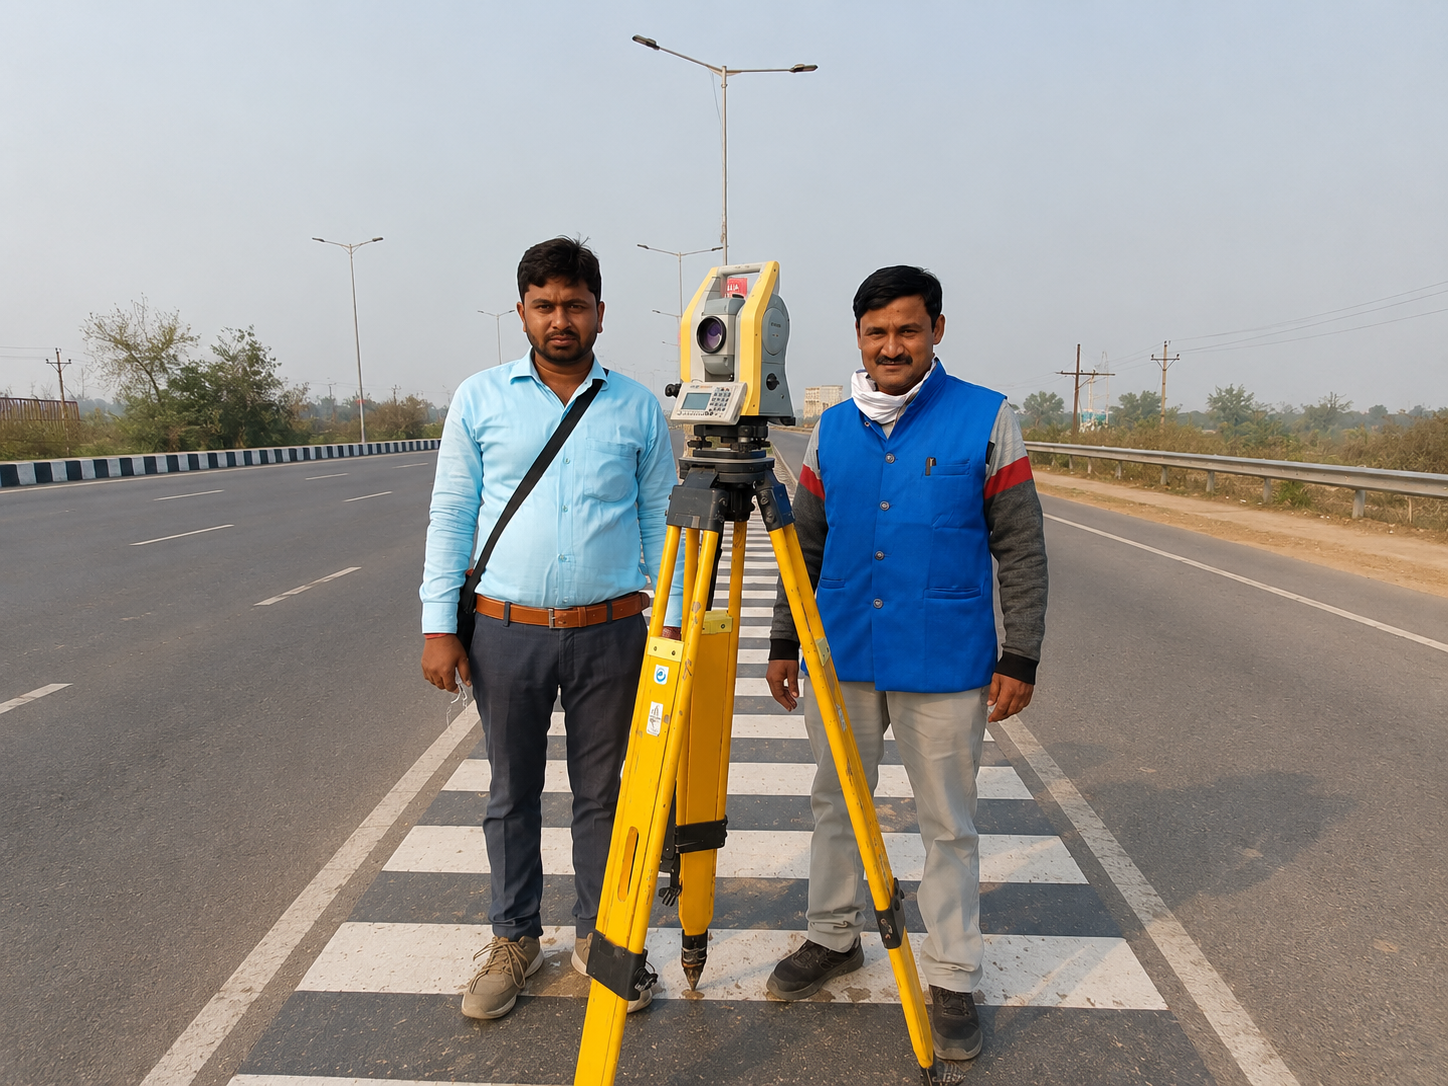
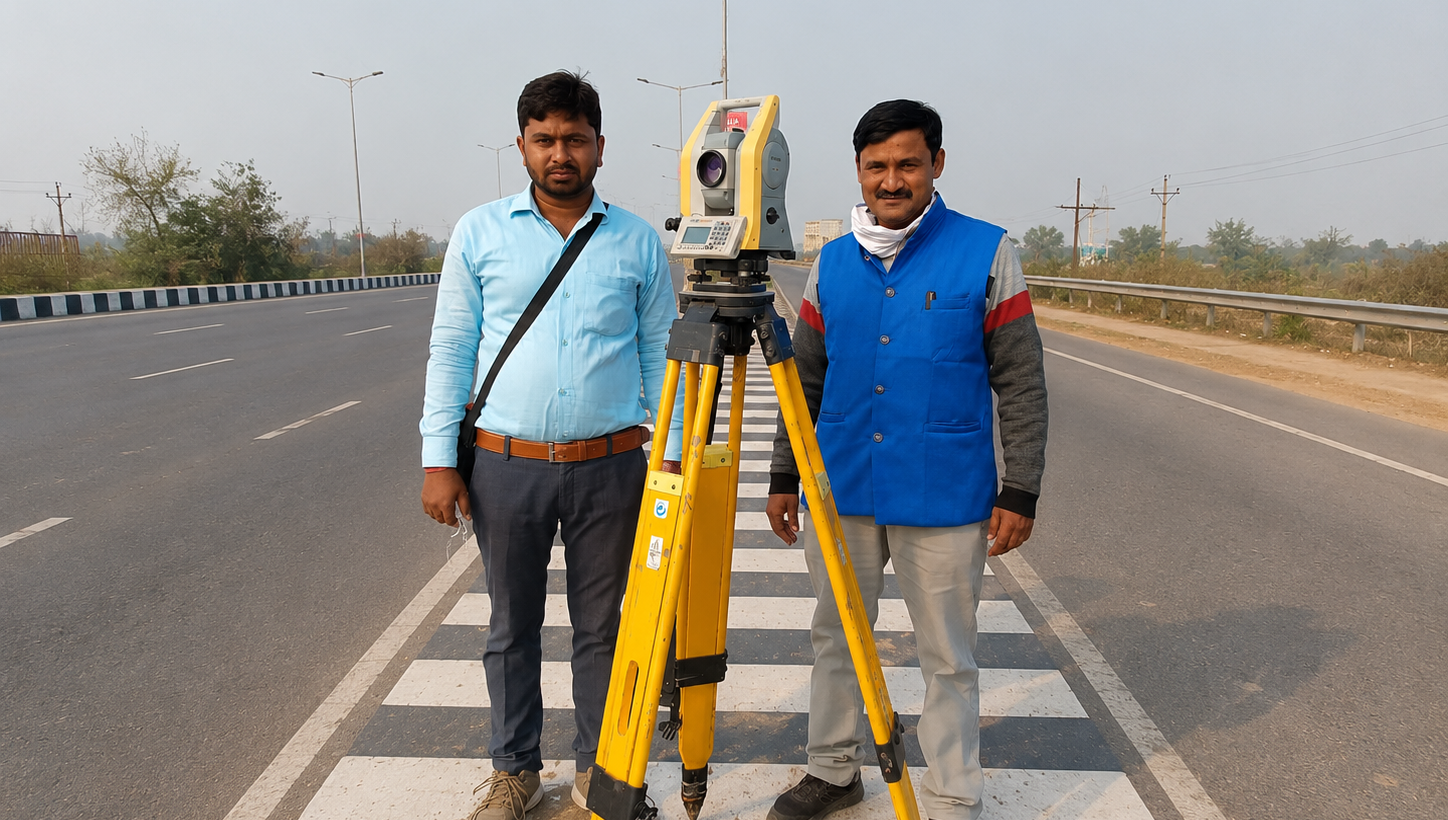
feat: add core pages, enquiry forms, and training details

diff --git a/src/components/forms/SurveyRequestForm.jsx b/src/components/forms/SurveyRequestForm.jsx
@@ -107,46 +107,42 @@ const SurveyRequestForm = () => {
     const whatsAppNumber = formData.customer.whatsappSameAsPhone ? formData.customer.phone : formData.customer.whatsapp;
     
     try {
-      const payload = {
-        name: formData.customer.name,
-        phone: formData.customer.phone,
-        type: 'Survey',
-        service: formData.service,
-        whatsapp: whatsAppNumber || '',
-        email: formData.customer.email || '',
-        location: `${formData.site.address}, ${formData.site.city}`,
-        data: {
-          site: formData.site,
-          requirement: formData.requirement,
-          hasDocuments: formData.documents.hasDocuments,
-          preferredContact: formData.customer.preferredContact
-        }
-      };
-
-      const data = await createLead(payload);
-      
-      const generatedId = data.leadCode;
-      
-      const message = `*NEW SURVEY REQUEST (${generatedId})*%0A%0A` +
-        `*1. SERVICE:* ${formData.service}%0A%0A` +
-        `*2. SITE DETAILS*%0A` +
-        `Location: ${formData.site.address}, ${formData.site.city}${formData.site.district ? `, ${formData.site.district}` : ''} ${formData.site.pincode}%0A` +
-        `Area: ${formData.site.area ? formData.site.area + ' ' + formData.site.unit : 'Not specified'}%0A` +
-        `Type: ${formData.site.siteType || 'Not specified'}%0A%0A` +
-        `*3. REQUIREMENT*%0A` +
-        `Description: ${formData.requirement.description}%0A` +
-        `Purpose: ${formData.requirement.purpose || 'Not specified'}%0A` +
-        `Preferred Discussion: ${formData.requirement.preferredDate}%0A%0A` +
-        `*4. DOCUMENTS*%0A` +
-        `Status: ${formData.documents.hasDocuments ? 'Has documents ready to share' : 'No documents available right now'}%0A%0A` +
-        `*5. CONTACT*%0A` +
-        `Name: ${formData.customer.name}%0A` +
-        `Phone: ${formData.customer.phone}%0A` +
-        `WhatsApp: ${whatsAppNumber || 'N/A'}%0A` +
-        `Email: ${formData.customer.email || 'N/A'}%0A` +
+      const rawMessage = `*NEW SURVEY REQUEST*\n\n` +
+        `*1. SERVICE:* ${formData.service}\n\n` +
+        `*2. SITE DETAILS*\n` +
+        `Location: ${formData.site.address}, ${formData.site.city}${formData.site.district ? `, ${formData.site.district}` : ''} ${formData.site.pincode}\n` +
+        `Area: ${formData.site.area ? formData.site.area + ' ' + formData.site.unit : 'Not specified'}\n` +
+        `Type: ${formData.site.siteType || 'Not specified'}\n\n` +
+        `*3. REQUIREMENT*\n` +
+        `Description: ${formData.requirement.description}\n` +
+        `Purpose: ${formData.requirement.purpose || 'Not specified'}\n` +
+        `Preferred Discussion: ${formData.requirement.preferredDate}\n\n` +
+        `*4. DOCUMENTS*\n` +
+        `Status: ${formData.documents.hasDocuments ? 'Has documents ready to share' : 'No documents available right now'}\n\n` +
+        `*5. CONTACT*\n` +
+        `Name: ${formData.customer.name}\n` +
+        `Phone: ${formData.customer.phone}\n` +
+        `WhatsApp: ${whatsAppNumber || 'N/A'}\n` +
+        `Email: ${formData.customer.email || 'N/A'}\n` +
         `Preferred Method: ${formData.customer.preferredContact}`;
 
-      setSuccessData({ leadCode: generatedId, message });
+      const whatsappNumber = '919453072917';
+      const emailAddress = 'adyalandsurvey@gmail.com';
+      
+      const whatsappUrl = `https://wa.me/${whatsappNumber}?text=${encodeURIComponent(rawMessage)}`;
+      const mailtoUrl = `mailto:${emailAddress}?subject=${encodeURIComponent('Survey Request: ' + formData.service)}&body=${encodeURIComponent(rawMessage)}`;
+
+      // Open WhatsApp in a new tab
+      window.open(whatsappUrl, '_blank');
+      
+      // Trigger Mailto via hidden iframe to avoid popup/focus blockers
+      const iframe = document.createElement('iframe');
+      iframe.style.display = 'none';
+      iframe.src = mailtoUrl;
+      document.body.appendChild(iframe);
+      setTimeout(() => document.body.removeChild(iframe), 2000);
+
+      setSuccessData({ leadCode: 'DIRECT-WA', message: rawMessage });
       
       const formElement = document.getElementById('survey-request-form');
       if(formElement) {
@@ -155,7 +151,7 @@ const SurveyRequestForm = () => {
       
     } catch (err) {
       console.error(err);
-      alert(err.message || 'There was an issue submitting your request. Please try again.');
+      alert('There was an issue processing your request. Please try WhatsApp directly.');
     } finally {
       setIsSubmitting(false);
     }

diff --git a/src/pages/TrainingDetail.jsx b/src/pages/TrainingDetail.jsx
@@ -69,37 +69,38 @@ const TrainingDetail = () => {
     setIsSubmitting(true);
 
     try {
-      const data = await createLead({
-        name: formData.name,
-        phone: formData.phone,
-        type: 'Training',
-        service: program.quickInfo.program,
-        whatsapp: formData.whatsapp || '',
-        email: formData.email || '',
-        location: formData.city || 'N/A',
-        data: {
-          qualification: formData.qualification,
-          organization: formData.organization,
-          message: formData.message
-        }
-      });
-
-      const message = `*TRAINING ENQUIRY*%0A%0A` +
-        `*Program:* ${program.quickInfo.program}%0A%0A` +
-        `*Name:* ${formData.name}%0A` +
-        `*Phone:* ${formData.phone}%0A` +
-        `*WhatsApp:* ${formData.whatsapp || 'Same'}%0A` +
-        `*Email:* ${formData.email || 'N/A'}%0A` +
-        `*Qualification:* ${formData.qualification}%0A` +
-        `*College/Company:* ${formData.organization || 'N/A'}%0A` +
-        `*City:* ${formData.city || 'N/A'}%0A%0A` +
+      const rawMessage = `*TRAINING ENQUIRY*\n\n` +
+        `*Program:* ${program.quickInfo.program}\n\n` +
+        `*Name:* ${formData.name}\n` +
+        `*Phone:* ${formData.phone}\n` +
+        `*WhatsApp:* ${formData.whatsapp || 'Same'}\n` +
+        `*Email:* ${formData.email || 'N/A'}\n` +
+        `*Qualification:* ${formData.qualification}\n` +
+        `*College/Company:* ${formData.organization || 'N/A'}\n` +
+        `*City:* ${formData.city || 'N/A'}\n\n` +
         `*Message:* ${formData.message || 'N/A'}`;
       
-      setSuccessData({ leadCode: data.leadCode, message });
+      const whatsappNumber = '919453072917';
+      const emailAddress = 'adyalandsurvey@gmail.com';
+      
+      const whatsappUrl = `https://wa.me/${whatsappNumber}?text=${encodeURIComponent(rawMessage)}`;
+      const mailtoUrl = `mailto:${emailAddress}?subject=${encodeURIComponent('Training Enquiry: ' + program.quickInfo.program)}&body=${encodeURIComponent(rawMessage)}`;
+
+      // Open WhatsApp in a new tab
+      window.open(whatsappUrl, '_blank');
+      
+      // Trigger Mailto via hidden iframe to avoid popup/focus blockers
+      const iframe = document.createElement('iframe');
+      iframe.style.display = 'none';
+      iframe.src = mailtoUrl;
+      document.body.appendChild(iframe);
+      setTimeout(() => document.body.removeChild(iframe), 2000);
+
+      setSuccessData({ leadCode: 'DIRECT-WA', message: rawMessage });
 
     } catch (err) {
       console.error(err);
-      alert(err.message || 'There was an issue submitting your enquiry. Please try WhatsApp directly.');
+      alert('There was an issue processing your request. Please try WhatsApp directly.');
     } finally {
       setIsSubmitting(false);
     }

diff --git a/src/components/forms/DetailedEnquiryForm.jsx b/src/components/forms/DetailedEnquiryForm.jsx
@@ -37,28 +37,31 @@ const DetailedEnquiryForm = () => {
     setIsSubmitting(true);
     
     try {
-      const data = await createLead({
-        name: mainForm.name,
-        phone: mainForm.phone,
-        type: 'Contact',
-        email: mainForm.email,
-        whatsapp: mainForm.whatsapp,
-        service: mainForm.service,
-        location: mainForm.location,
-        data: {
-          area: mainForm.area,
-          message: mainForm.message
-        }
-      });
-
-      const message = `Hello ADYA,%0A%0AI would like to submit a detailed enquiry:%0A%0A*Name:* ${mainForm.name}%0A*Phone:* ${mainForm.phone}%0A*WhatsApp:* ${mainForm.whatsapp || 'Same'}%0A*Email:* ${mainForm.email || 'N/A'}%0A*Service Required:* ${mainForm.service}%0A*Site Location:* ${mainForm.location}%0A*Approx Area:* ${mainForm.area || 'N/A'}%0A%0A*Requirement/Message:*%0A${mainForm.message}`;
+      const rawMessage = `Hello ADYA Land Surveyor,\n\nI would like to submit a detailed enquiry:\n\n*Name:* ${mainForm.name}\n*Phone:* ${mainForm.phone}\n*WhatsApp:* ${mainForm.whatsapp || 'Same'}\n*Email:* ${mainForm.email || 'N/A'}\n*Service Required:* ${mainForm.service}\n*Site Location:* ${mainForm.location}\n*Approx Area:* ${mainForm.area || 'N/A'}\n\n*Requirement/Message:*\n${mainForm.message}`;
       
-      setSuccessData({ leadCode: data.leadCode, message });
+      const whatsappNumber = '919453072917';
+      const emailAddress = 'adyalandsurvey@gmail.com';
+      
+      const whatsappUrl = `https://wa.me/${whatsappNumber}?text=${encodeURIComponent(rawMessage)}`;
+      const mailtoUrl = `mailto:${emailAddress}?subject=${encodeURIComponent('New Enquiry: ' + mainForm.service)}&body=${encodeURIComponent(rawMessage)}`;
+
+      // Open WhatsApp in a new tab
+      window.open(whatsappUrl, '_blank');
+      
+      // Trigger Mailto via hidden iframe to avoid popup/focus blockers
+      const iframe = document.createElement('iframe');
+      iframe.style.display = 'none';
+      iframe.src = mailtoUrl;
+      document.body.appendChild(iframe);
+      setTimeout(() => document.body.removeChild(iframe), 2000);
+      
+      // Set the success screen so the user knows it worked
+      setSuccessData({ leadCode: 'DIRECT-WA', message: rawMessage });
       setMainForm({ name: '', phone: '', whatsapp: '', email: '', service: '', location: '', area: '', message: '' });
       
     } catch (err) {
       console.error(err);
-      alert(err.message || 'There was an issue submitting your enquiry. Please try WhatsApp directly.');
+      alert('There was an issue processing your request. Please try WhatsApp directly.');
     } finally {
       setIsSubmitting(false);
     }

diff --git a/src/components/forms/QuickEnquiryForm.jsx b/src/components/forms/QuickEnquiryForm.jsx
@@ -30,26 +30,30 @@ const QuickEnquiryForm = () => {
     setIsSubmitting(true);
     
     try {
-      const data = await createLead({
-        name: quickForm.name,
-        phone: quickForm.phone,
-        type: 'Contact',
-        service: 'Quick Survey Enquiry',
-        location: quickForm.location,
-        data: {
-          survey_type: quickForm.type,
-          approx_area: quickForm.area || 'N/A'
-        }
-      });
-
-      const message = `Hello ADYA,%0A%0AI would like to request a quick survey discussion:%0A%0A*Name:* ${quickForm.name}%0A*Phone:* ${quickForm.phone}%0A*Site Location:* ${quickForm.location}%0A*Survey Type:* ${quickForm.type}%0A*Approx Area:* ${quickForm.area || 'N/A'}`;
+      const rawMessage = `Hello ADYA Land Surveyor,\n\nI would like to request a quick survey discussion:\n\n*Name:* ${quickForm.name}\n*Phone:* ${quickForm.phone}\n*Site Location:* ${quickForm.location}\n*Survey Type:* ${quickForm.type}\n*Approx Area:* ${quickForm.area || 'N/A'}`;
       
-      setSuccessData({ leadCode: data.leadCode, message });
+      const whatsappNumber = '919453072917';
+      const emailAddress = 'adyalandsurvey@gmail.com';
+      
+      const whatsappUrl = `https://wa.me/${whatsappNumber}?text=${encodeURIComponent(rawMessage)}`;
+      const mailtoUrl = `mailto:${emailAddress}?subject=${encodeURIComponent('Quick Enquiry: ' + quickForm.type)}&body=${encodeURIComponent(rawMessage)}`;
+
+      // Open WhatsApp in a new tab
+      window.open(whatsappUrl, '_blank');
+      
+      // Trigger Mailto via hidden iframe to avoid popup/focus blockers
+      const iframe = document.createElement('iframe');
+      iframe.style.display = 'none';
+      iframe.src = mailtoUrl;
+      document.body.appendChild(iframe);
+      setTimeout(() => document.body.removeChild(iframe), 2000);
+      
+      setSuccessData({ leadCode: 'DIRECT-WA', message: rawMessage });
       setQuickForm({ name: '', phone: '', location: '', type: '', area: '' });
       
     } catch (err) {
       console.error(err);
-      alert(err.message || 'There was an issue submitting your enquiry. Please try WhatsApp directly.');
+      alert('There was an issue processing your request. Please try WhatsApp directly.');
     } finally {
       setIsSubmitting(false);
     }

diff --git a/src/pages/Home.jsx b/src/pages/Home.jsx
@@ -509,6 +509,7 @@ const Home = () => {
                     <Star fill="currentColor" size={14} />
                   </div>
                   <div className="text-[10px] md:text-[11px] font-bold text-gray-400 uppercase tracking-wider">Google Rating</div>
+                  <div className="text-[10px] font-medium text-gray-500 mt-1">(Based on 9 reviews)</div>
                 </div>
                 
                 <div>
@@ -517,11 +518,11 @@ const Home = () => {
                   </p>
                   <div className="flex items-center justify-between flex-wrap gap-4">
                     <div>
-                      <div className="font-bold text-[#10263F] text-sm">Verified Client</div>
-                      <div className="text-[11px] text-gray-500">Lucknow, Uttar Pradesh</div>
+                      <div className="font-bold text-[#10263F] text-sm">Adya Land Surveying</div>
+                      <div className="text-[11px] text-gray-500">Gomti Nagar, Lucknow</div>
                     </div>
-                    <a href="#" className="text-[11px] font-bold text-blue-600 hover:text-blue-800 transition-colors bg-blue-50 px-3 py-1.5 rounded-full inline-block">
-                      View on Google &rarr;
+                    <a href="https://maps.google.com/?cid=9111641281994060649" target="_blank" rel="noopener noreferrer" className="text-[11px] font-bold text-blue-600 hover:text-blue-800 transition-colors bg-blue-50 px-3 py-1.5 rounded-full inline-block">
+                      View on Google Maps &rarr;
                     </a>
                   </div>
                 </div>

diff --git a/src/pages/About.jsx b/src/pages/About.jsx
@@ -36,7 +36,7 @@ const About = () => {
         eyebrow="About Adya"
         title="20+ Years of Experience. Built on Precision & Practice."
         description="Adya Land Surveying And Design is a professional civil engineering and land surveying firm providing practical surveying, design and technical solutions backed by more than two decades of field experience."
-        image="/survey12.jpg"
+        image="/service_hero1.jpg"
       />
 
       {/* 2. WHO WE ARE */}
